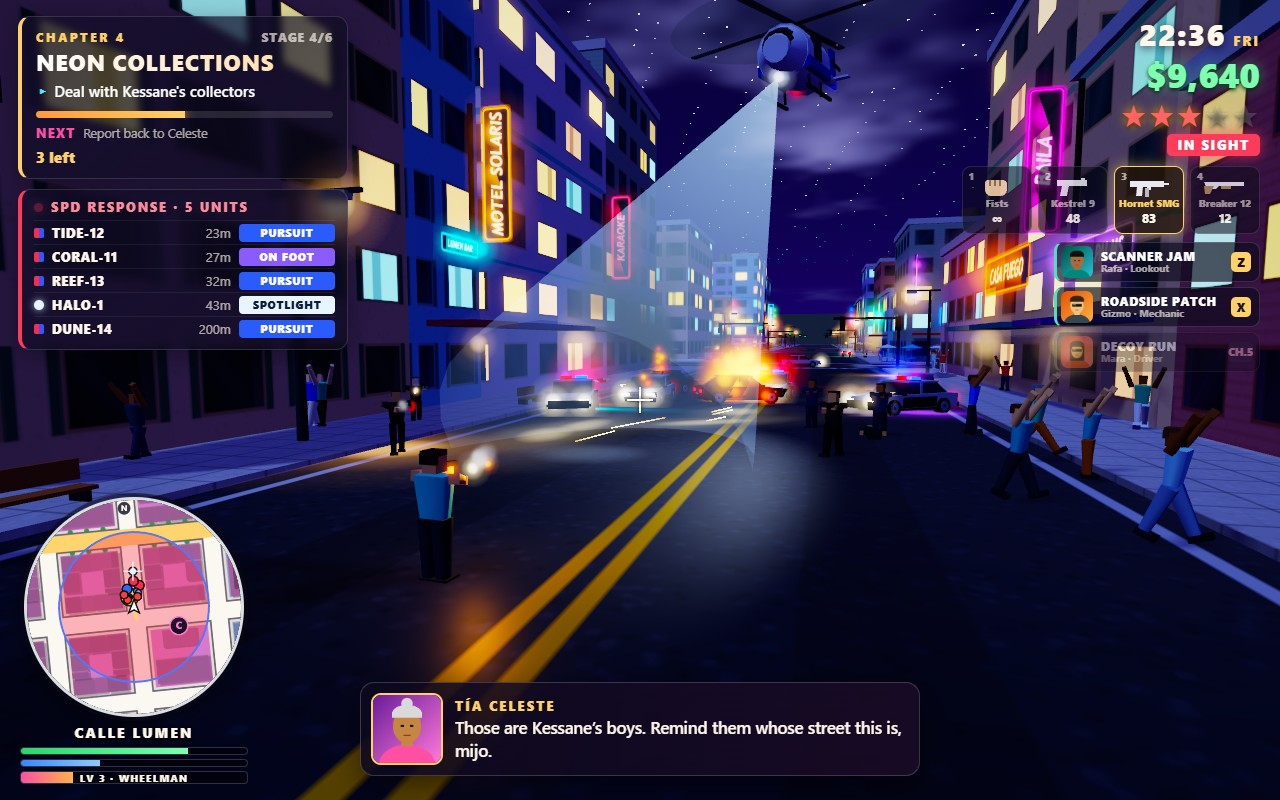
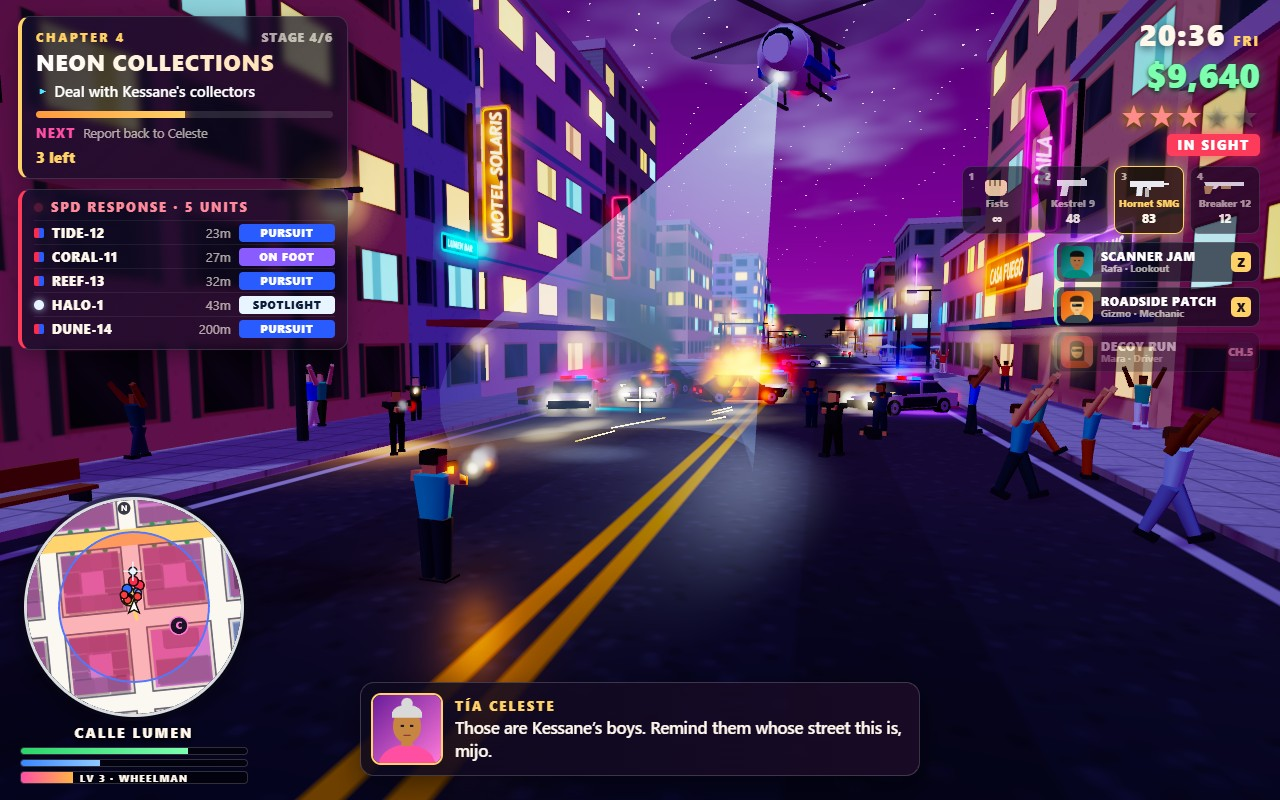
Shootout at blue hour: violet sky over the neon strip, brighter and readable

diff --git a/game/src/shots/screenshotDirector.js b/game/src/shots/screenshotDirector.js
@@ -171,7 +171,7 @@ const SCENES = {
   },
 
   async neon(game) {
-    setup(game, 22.6);
+    setup(game, 20.6);
     game.teleportPlayer(-402, -215, Math.PI);
     game.state.storyIndex = 3;
     game.state.money = 9640;
